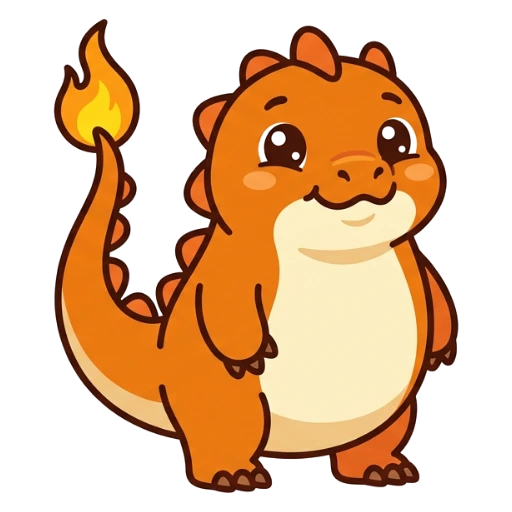
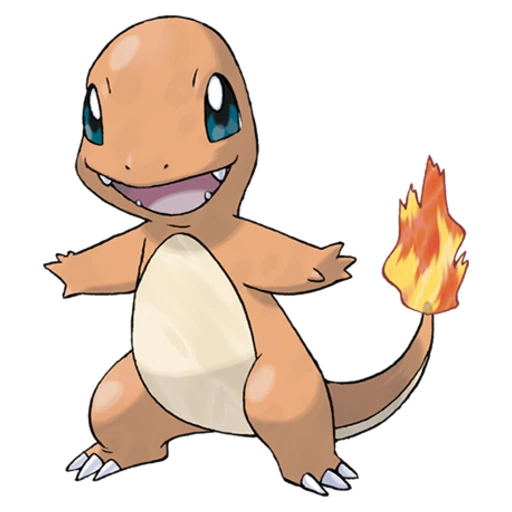
Slim the carrom rail, and put the real Pokémon in Ludo's yards
Carrom: the rail was 16.7% of the board per side — a third of the picture was
wood and the playing surface looked pinched. It is 12.5% now (the reference
sheet measures 14%), the walnut is lighter and warmer, and the double rule and
corner joint discs are back at the weight and size the reference has them.

Three faults fell out of measuring it:

* four 'rail shadow' bands were filled across the rail's full width and height
  instead of onto the bed, so the north rail's shadow painted a dark cross
  through the whole frame — and the bed paints its own edge shadow anyway;
* the rule lines were half the width they should be;
* the joint discs were half the radius.

Physics is untouched: the bed is still 100 units, the pockets still kill at
POCKET_R, and  remains the single mapping from bed units to pixels.

Ludo: the yards hold the actual cast now — Squirtle in blue, Bulbasaur in green,
Charmander in red, Pikachu in gold, matching the reference's colour mapping.
They are the official artwork set (PokeAPI/sprites, other/official-artwork),
trimmed to their outlines, squared and written at 512 px webp. The shelf cover
was regenerated to show the same four.

diff --git a/src/games/carrom/paint.ts b/src/games/carrom/paint.ts
@@ -66,14 +66,14 @@ const RED_DARK = '#7d2114';
 export interface PaintSize { size: number; frame: number; margin: number; scale: number; origin: number }
 
 export function layout(size: number): PaintSize {
-  /* margin → rail → bed, read off the reference with a ruler rather than
-     guessed: a 4% cream margin, then a *wide* rail — 16.7% of the board, which is
-     where the pockets are drilled — leaving a bed of two thirds of the board.
-     The old board was almost all bed with a thin frame, which is why it read as a
-     diagram: a real printed board is mostly rail. */
+  /* margin → rail → bed. The first pass over-corrected: 16.7% of the board per
+     side is a sixth of the wood *each way*, so a third of the picture was rail
+     and the playing surface — the part that matters — looked pinched. A printed
+     board's rail is about an eighth of the board, which leaves three quarters of
+     the piece as bed. */
   const margin = size * 0.04;
   const board = size - margin * 2;
-  const frame = board * 0.167;
+  const frame = board * 0.125;
   const inner = board - frame * 2;
   return { size, frame, margin, scale: inner / BOARD, origin: margin + frame };
 }
@@ -170,7 +170,7 @@ export function paintBoard(ctx: CanvasRenderingContext2D, l: PaintSize) {
   const top = outer.y, right = outer.x + outer.s, bottom = outer.y + outer.s, left = outer.x;
 
   ctx.save();
-  ctx.fillStyle = '#7c552c';
+  ctx.fillStyle = '#7a5230';
   ctx.fillRect(left, top, outer.s, outer.s);
 
   ctx.save();
@@ -186,14 +186,14 @@ export function paintBoard(ctx: CanvasRenderingContext2D, l: PaintSize) {
     fillStretched(ctx, rail, left, top, outer.s, outer.s);
     ctx.globalAlpha = 1;
     ctx.globalCompositeOperation = 'color';
-    ctx.fillStyle = '#6b4220';
+    ctx.fillStyle = '#6b4423';
     ctx.fillRect(left, top, outer.s, outer.s);
     ctx.globalCompositeOperation = 'soft-light';
     ctx.fillStyle = 'rgba(255,232,196,.1)';
     ctx.fillRect(left, top, outer.s, outer.s);
     // the reference's walnut is a good deal darker than the photograph's
     ctx.globalCompositeOperation = 'multiply';
-    ctx.fillStyle = 'rgba(122,84,44,.34)';
+    ctx.fillStyle = 'rgba(112,64,26,.32)';
     ctx.fillRect(left, top, outer.s, outer.s);
     ctx.globalCompositeOperation = 'source-over';
   } else {
@@ -213,8 +213,7 @@ export function paintBoard(ctx: CanvasRenderingContext2D, l: PaintSize) {
 
   /* the arris: the lightest thing on the board, a hair inside the outer edge,
      and the shade the rail drops onto the bed */
-  const arrisW = seam * 0.26;
-  const band = arrisW * 1.5;
+  const arrisW = Math.max(size * 0.006, seam * 0.20);
   const arris = ctx.createLinearGradient(0, top, 0, top + arrisW);
   arris.addColorStop(0, 'rgba(255,228,182,.13)');
   arris.addColorStop(1, 'rgba(255,228,182,0)');
@@ -226,32 +225,12 @@ export function paintBoard(ctx: CanvasRenderingContext2D, l: PaintSize) {
   ctx.fillStyle = arrisL;
   ctx.fillRect(left, top, arrisW, outer.s);
 
-  /* These bands were drawn across the whole canvas at first, so the shadow of
-     the north rail was painted over the east and west rails too — a cross of two
-     dark stripes straight through the frame. Each one is bounded by the board. */
-  const bedEdge = ctx.createLinearGradient(0, top + seam, 0, top + seam - band);
-  bedEdge.addColorStop(0, 'rgba(26,12,2,.30)');
-  bedEdge.addColorStop(1, 'rgba(26,12,2,0)');
-  ctx.fillStyle = bedEdge;
-  ctx.fillRect(left, top + seam - band, outer.s, band);
-
-  const bedEdgeB = ctx.createLinearGradient(0, bottom - seam, 0, bottom - seam + band);
-  bedEdgeB.addColorStop(0, 'rgba(26,12,2,.22)');
-  bedEdgeB.addColorStop(1, 'rgba(26,12,2,0)');
-  ctx.fillStyle = bedEdgeB;
-  ctx.fillRect(left, bottom - seam, outer.s, band);
-
-  const bedEdgeL = ctx.createLinearGradient(left + seam, 0, left + seam - band, 0);
-  bedEdgeL.addColorStop(0, 'rgba(26,12,2,.26)');
-  bedEdgeL.addColorStop(1, 'rgba(26,12,2,0)');
-  ctx.fillStyle = bedEdgeL;
-  ctx.fillRect(left + seam - band, top, band, outer.s);
-
-  const bedEdgeR = ctx.createLinearGradient(right - seam, 0, right - seam + band, 0);
-  bedEdgeR.addColorStop(0, 'rgba(26,12,2,.22)');
-  bedEdgeR.addColorStop(1, 'rgba(26,12,2,0)');
-  ctx.fillStyle = bedEdgeR;
-  ctx.fillRect(right - seam, top, band, outer.s);
+  /* The four bands that used to live here were meant to be the rail's shadow
+     falling on the bed, but they were filled across the *rail's* full width and
+     height, so the north rail's shadow was painted over the east and west rails
+     as well — a cross of two dark stripes straight through the frame, which is
+     most of why the wood read as one heavy slab. The bed paints its own edge
+     shadow inside its own clip further down, so they were also doubling up. */
 
   // the mitre seams, from each outer corner in
   ctx.strokeStyle = 'rgba(30,16,4,.07)';
@@ -334,6 +313,14 @@ export function paintBoard(ctx: CanvasRenderingContext2D, l: PaintSize) {
   ctx.fillRect(bedX + inner - shadeW, bedX, shadeW, inner);
   ctx.restore();
 
+  /* a lit chamfer on the rail, just outside the bed's edge */
+  ctx.save();
+  ctx.strokeStyle = 'rgba(255,226,178,.22)';
+  ctx.lineWidth = Math.max(1, size * 0.0022);
+  roundRect(ctx, bedX - size * 0.0016, bedX - size * 0.0016, inner + size * 0.0032, inner + size * 0.0032, mouth);
+  ctx.stroke();
+  ctx.restore();
+
   /* the hard line where the rail ends and the bed begins */
   ctx.save();
   ctx.strokeStyle = 'rgba(38,20,4,.16)';
@@ -369,10 +356,10 @@ function paintMarkings(ctx: CanvasRenderingContext2D, l: PaintSize) {
   ctx.lineCap = 'round';
 
   /* --- the double rule ------------------------------------------------ */
-  ctx.lineWidth = Math.max(0.6, unit * 0.26);
+  ctx.lineWidth = Math.max(0.9, unit * 0.42);
   const o0 = px(l, RULE_OUTER), o1 = px(l, 100 - RULE_OUTER);
   ctx.strokeRect(o0, o0, o1 - o0, o1 - o0);
-  ctx.lineWidth = Math.max(0.55, unit * 0.24);
+  ctx.lineWidth = Math.max(0.8, unit * 0.36);
   const i0 = px(l, RULE_INNER), i1 = px(l, 100 - RULE_INNER);
   ctx.strokeRect(i0, i0, i1 - i0, i1 - i0);
 
@@ -380,7 +367,7 @@ function paintMarkings(ctx: CanvasRenderingContext2D, l: PaintSize) {
   for (const [sx, sy] of [[1, 1], [-1, 1], [1, -1], [-1, -1]] as const) {
     const x = px(l, sx > 0 ? RULE_OUTER : 100 - RULE_OUTER);
     const y = px(l, sy > 0 ? RULE_OUTER : 100 - RULE_OUTER);
-    const r = unit * 2.0;
+    const r = unit * 2.9;
     // the pale disc the rails are jointed with
     const disc = ctx.createRadialGradient(x - r * 0.3, y - r * 0.35, r * 0.1, x, y, r);
     disc.addColorStop(0, '#f3e6c9');

diff --git a/src/games/ludo/paint.ts b/src/games/ludo/paint.ts
@@ -370,11 +370,13 @@ export function paintBoard(ctx: CanvasRenderingContext2D, l: Layout, active: num
 
     /* the creature: as big as it can be without touching the keyline */
     const art = material(p.creature);
-    const as = w * 0.80;
+    /* the figures are trimmed to their own outline, so they fill the box they
+       are given — a little smaller than the keyline keeps the frame readable */
+    const as = w * 0.72;
     if (art) {
       ctx.save();
       ctx.globalAlpha = 0.98;
-      ctx.drawImage(art, x + (w - as) / 2, y + (w - as) / 2 + cell * 0.06, as, as);
+      ctx.drawImage(art, x + (w - as) / 2, y + (w - as) / 2 + cell * 0.02, as, as);
       ctx.restore();
     } else {
       /* before the picture lands — or if it never does — an emblem, printed in

diff --git a/docs/game-audit.md b/docs/game-audit.md
@@ -221,9 +221,12 @@ printed Ludo sheet: the walnut-and-marble version was a *table*, and a printed
 board has no highlights in it. It is now flat print — cream stock, one ink
 (`#2e2a22`), four seat colours — with a creature printed in each yard, ivory
 squares in an ink lattice, a pinwheel rosette where the four lanes arrive, and
-flame/leaf/wave/bolt motifs in the margin. The four creatures are generated
-artwork (`public/art/ludo/yard-*.webp`, ~40 KB each, keyed off white and trimmed)
-and are the only images the board needs; everything else is drawn. The board is
+flame/leaf/wave/bolt motifs in the margin. The four creatures are the real cast —
+Charmander, Bulbasaur, Squirtle and Pikachu, one per colour, matching the
+reference sheet — taken from the official artwork set (the `PokeAPI/sprites`
+repo's `other/official-artwork` directory), trimmed to their outlines, squared and
+written to `public/art/ludo/yard-*.webp` at 512 px, ~35–41 KB each. They are the
+only images the board needs; everything else is drawn. The board is
 painted **once** into an offscreen canvas and blitted each frame; only the pieces
 move, so the detail costs nothing per frame. If a creature never arrives the
 painter prints that seat's emblem in the same place instead, so nothing pops.
@@ -257,3 +260,34 @@ for a six or a capture, that home count never falls, that captures happen, and
 that every game ends. **Smoke-tested only:** the visible capture animation (rules
 and relay are covered, but the flight home was not caught on camera), and the
 stacked-token badge.
+
+## Addendum: the carrom rail, and the ludo cast
+
+Two notes from a pass over the look of both boards:
+
+**The carrom rail was eating the board.** It had been set to 16.7% of the board
+per side to stop the board looking like a diagram, which over-corrected: a third
+of the picture was wood and the playing surface — the part with the game in it —
+looked pinched. It is 12.5% now, which is *narrower* than the reference sheet
+measured at 14%, and the wood was lightened and warmed at the same time. Two
+related faults came out with it: four "rail shadow" bands were being filled
+across the rail's full width and height instead of onto the bed, so the north
+rail's shadow painted a dark cross through the whole frame (the bed paints its
+own edge shadow inside its own clip, so they were also doubling up); and the
+double rule and the corner joint discs were drawn at half the weight and half the
+size the reference has them. Nothing about the physics moved: the bed is still
+100 units, the pockets still kill at `POCKET_R`, and `layout()` is the single
+place the bed is mapped to pixels, so aiming and the referee's geometry agree.
+
+**Ludo's yards now hold the actual Pokémon.** The first repaint drew four
+creatures generated for the job; they read as the right animals but they were not
+the cast. They are the official artwork now, keyed on their transparent
+backgrounds and sized to the same optical weight, so the blue yard is Squirtle,
+green is Bulbasaur, red is Charmander and gold is Pikachu — the colour-to-creature
+mapping the reference sheet uses. The shelf cover was regenerated to show the same
+four, so the card and the board agree.
+
+Verified in a real Chromium after both changes: the boards at 840 px and at 362 px
+(phone) and 470 px (desktop carrom) with no console errors; carrom's room pass
+20/20 through the relay (a shot played, both boards agreeing) and ludo's 17/17;
+unit suite 1089/1089; lint, build and seo clean.
